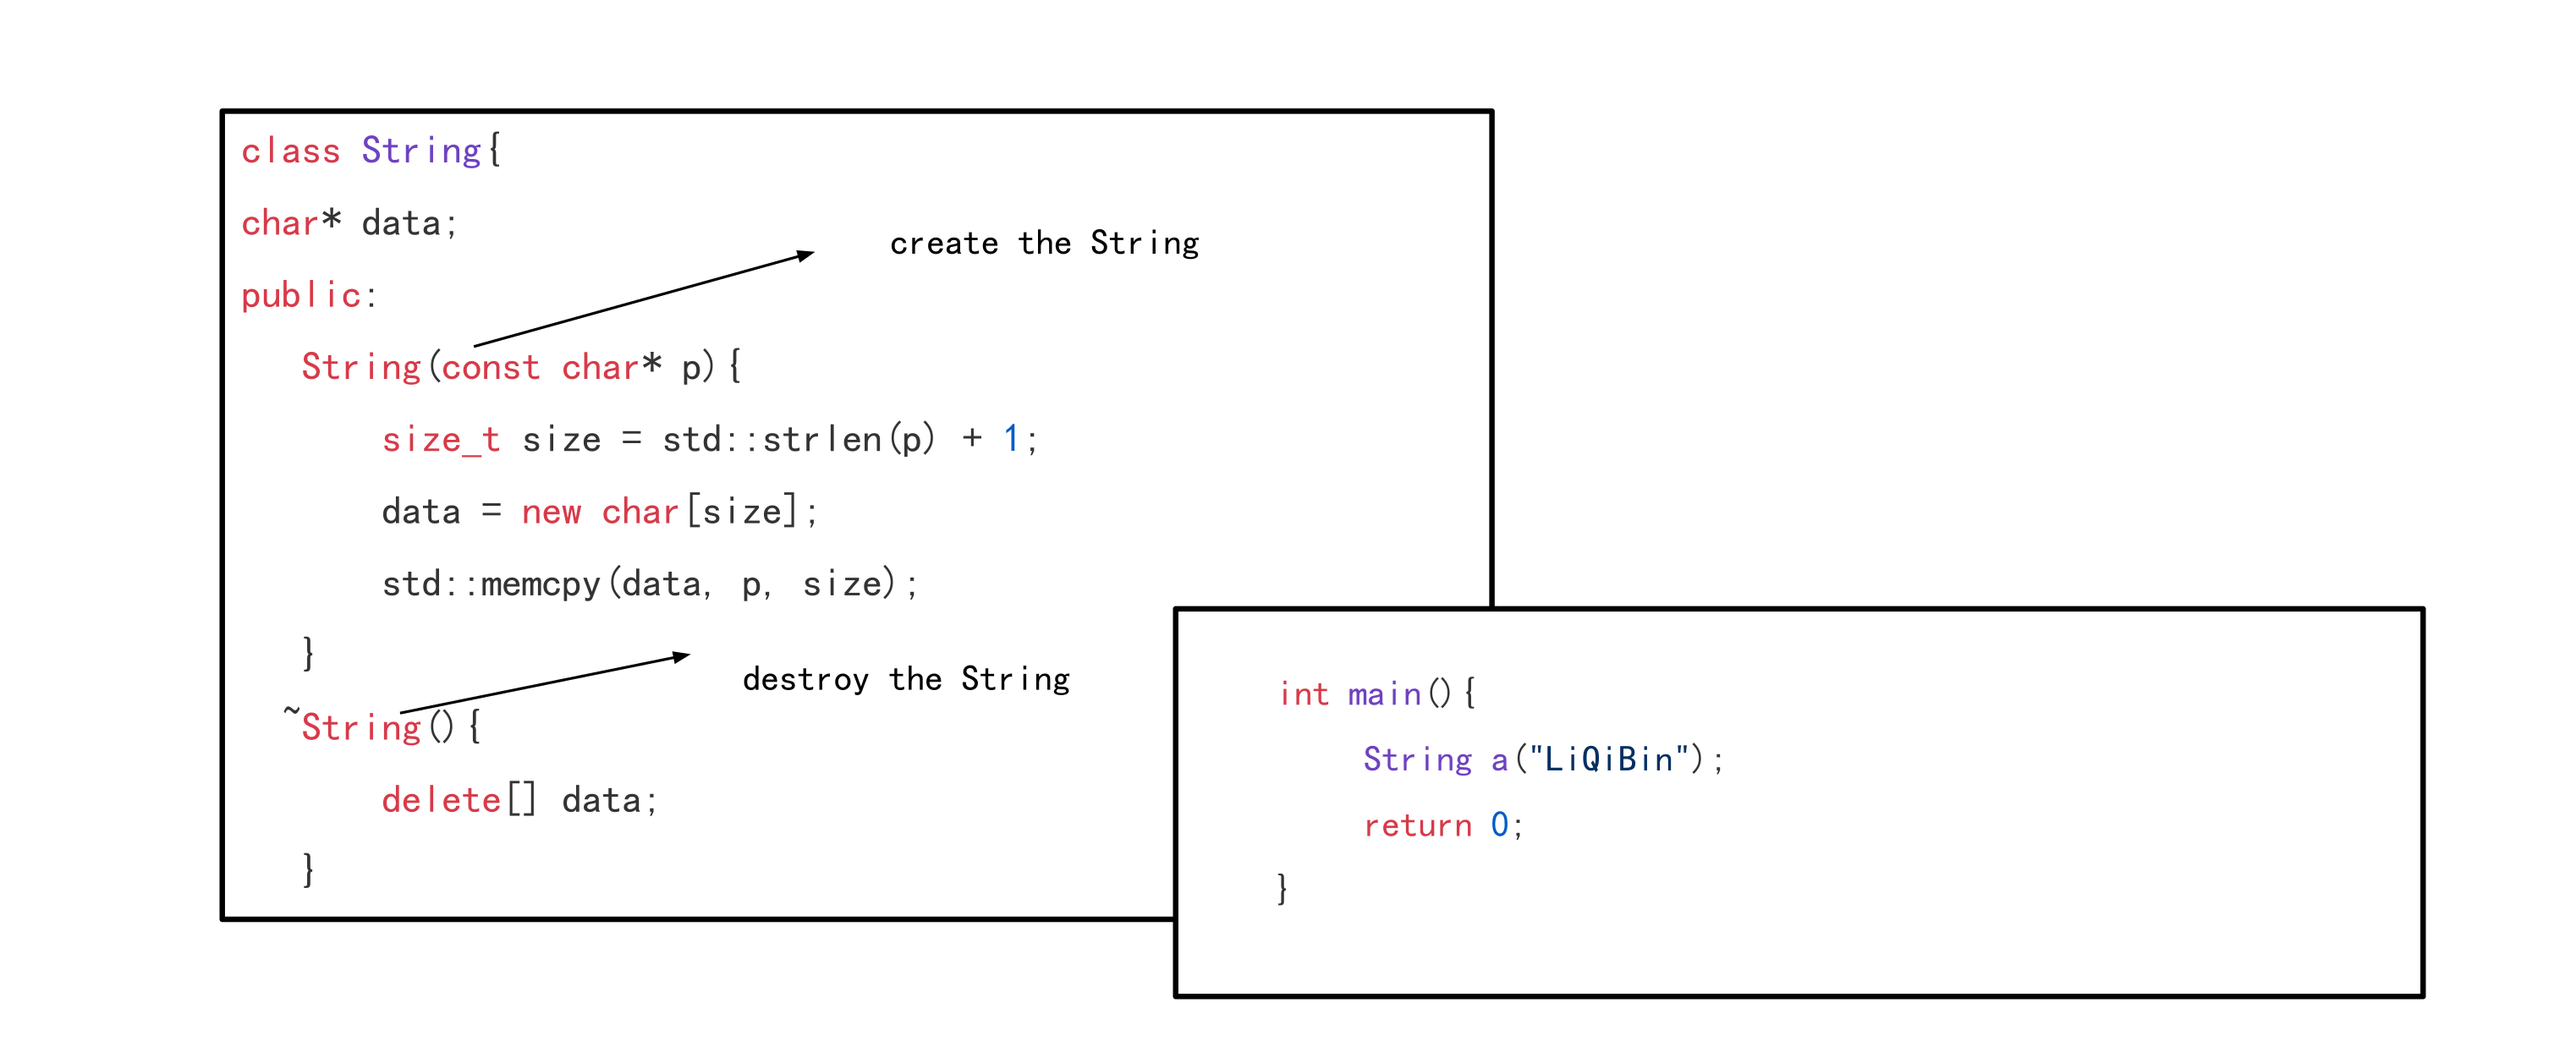
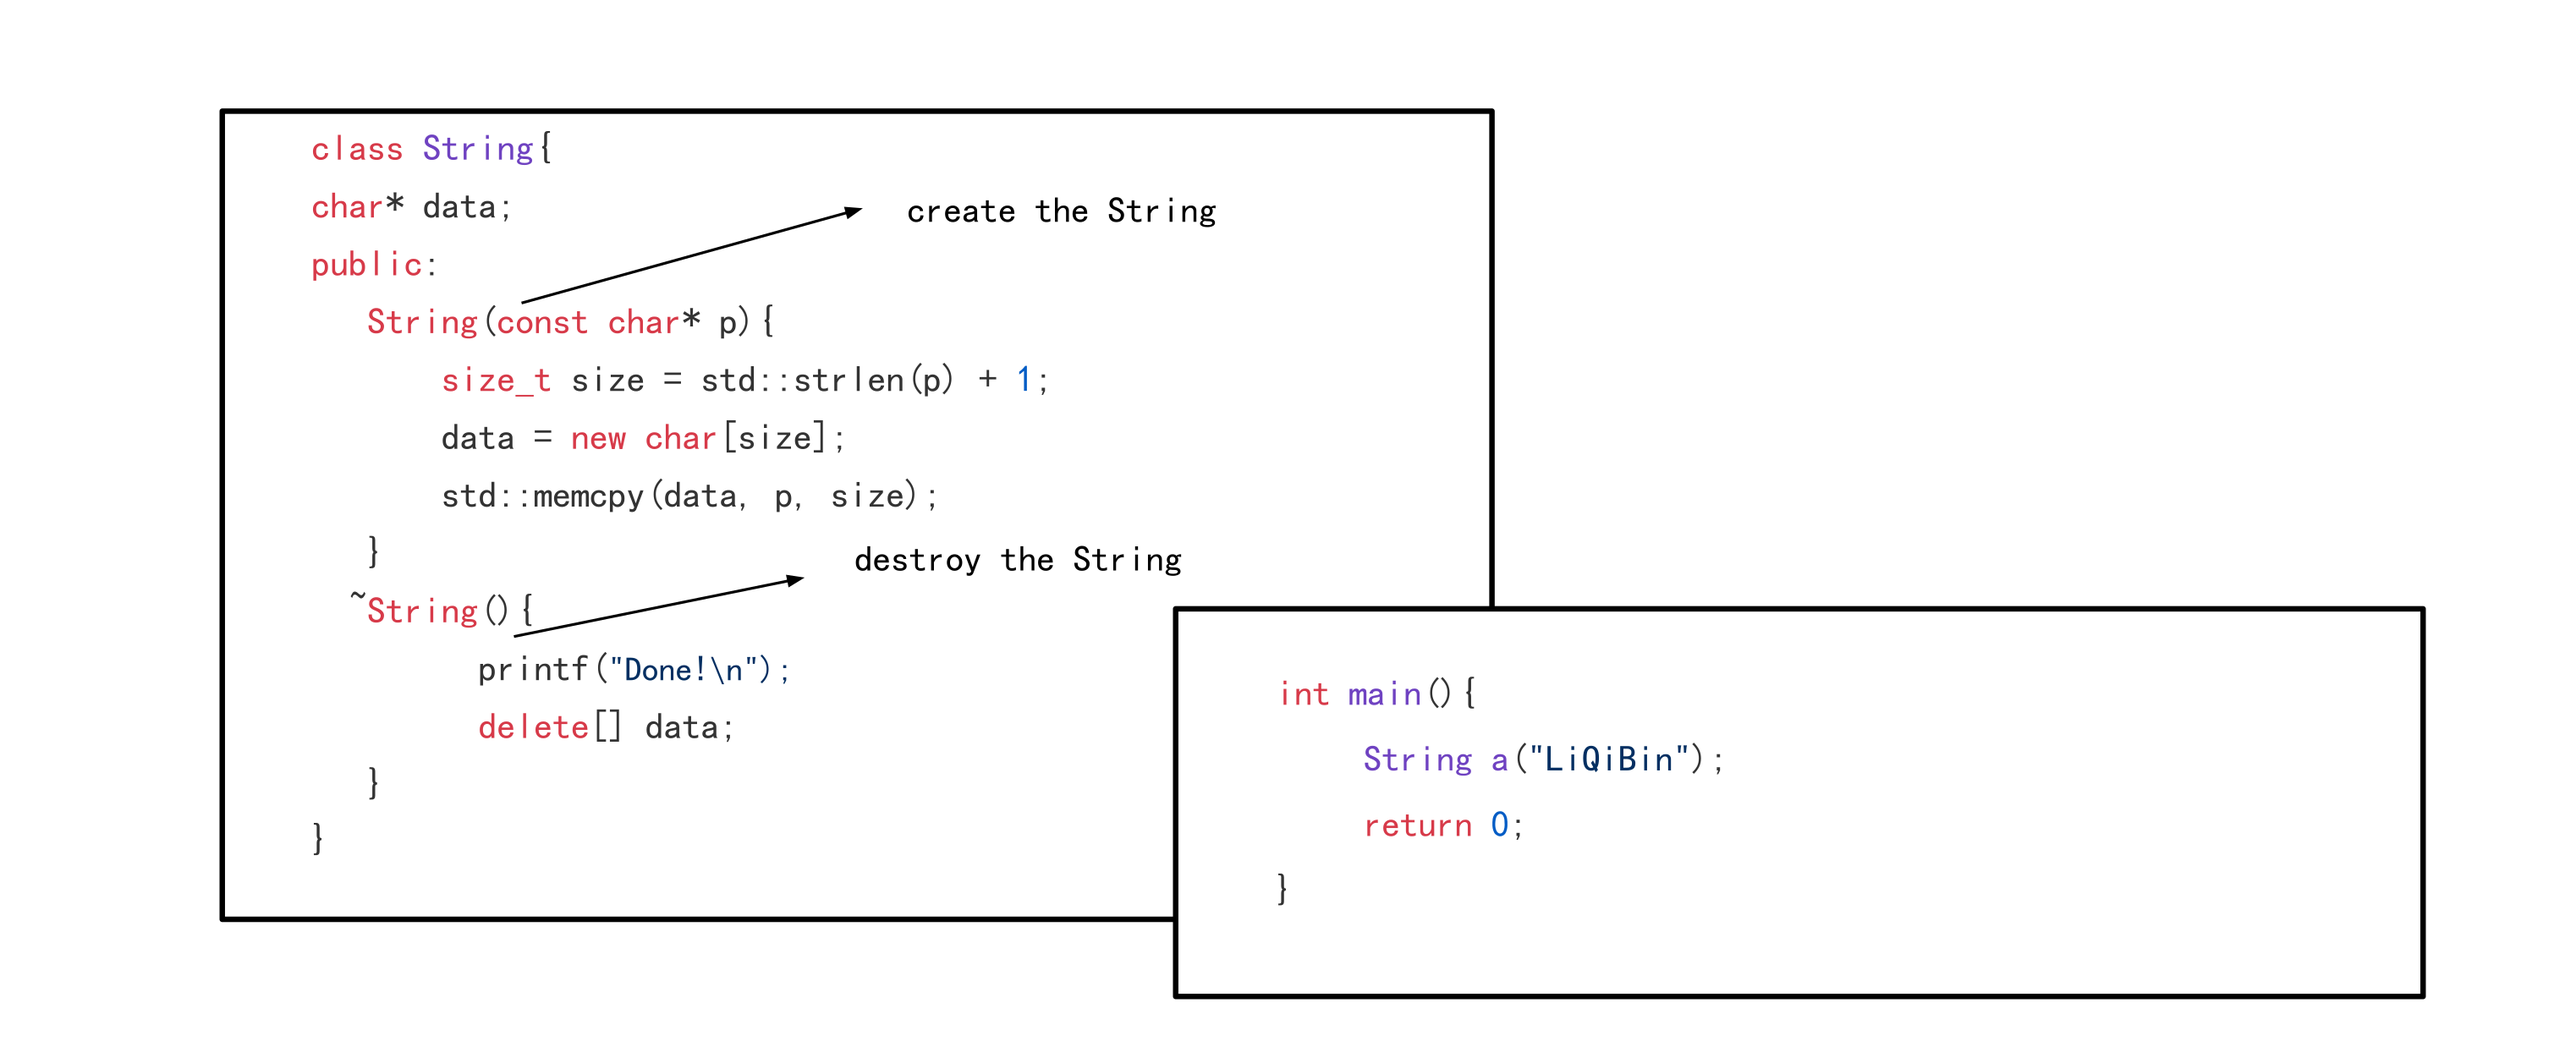
Site updated: 2021-02-22 04:40:40

diff --git a/2021/02/21/The-rule-of-Three-Five/index.html b/2021/02/21/The-rule-of-Three-Five/index.html
@@ -185,7 +185,7 @@
     
     <span class="post-meta mr-2">
       <i class="iconfont icon-chart"></i>
-      289 字
+      597 字
     </span>
   
 
@@ -195,7 +195,7 @@
       <i class="iconfont icon-clock-fill"></i>
       
       
-      3
+      7
        分钟
     </span>
   
@@ -238,7 +238,15 @@
 <p>三法则规定:如果类中定义了以下三个特殊的成员函数的其中一个，则这个应该显式的定义所有的三个特殊的成员函数。<br><br>因为默认生成的三个函数通常不能满足我们的使用要求。<br></p>
 <p>默认生成的<code>Copy Constructor</code>和<code>Copy assignment operator</code>执行的是浅拷贝(<a href="https://en.wikipedia.org/wiki/Object_copying#Shallow_copy" target="_blank" rel="noopener">Shallow Copy</a>)。而我们的类中如果存在指针这类的成员变量,使用默认生成的这两个函数，可能会引起内存泄漏及一系列无法定义的行为。<br></p>
 <p>下面分别介绍这三个特殊的成员函数。<br></p>
-<h2 id="The-Desturctor"><a href="#The-Desturctor" class="headerlink" title="The Desturctor"></a>The Desturctor</h2><p>当类结束它的生命周期的时候，类会自动调用析构函数去销毁这个类。<br><br><img src="png1.png" alt="png1"><br><br>如上图，当<code>String</code>类</p>
+<h2 id="The-Desturctor"><a href="#The-Desturctor" class="headerlink" title="The Desturctor"></a>The Desturctor</h2><p>当类结束它的生命周期的时候，类会自动调用析构函数去销毁这个类。<br><br><img src="png1.png" alt="String class"><br><br>如上图，当<code>String</code>类运行到<code>main</code>块的末尾的时候结束其生命周期，这个时候类会自动调用析构函数去销毁这个类。<br></p>
+<p><strong>输出如下:</strong><br><br><figure class="highlight c++"><table><tr><td class="gutter hljs hljs hljs"><div class="hljs code-wrapper"><pre><span class="line">1</span><br></pre></div></td><td class="code"><div class="hljs code-wrapper"><pre><code class="hljs c++">Done!<br></code></pre></div></td></tr></table></figure></p>
+<h2 id="The-assignment-operator"><a href="#The-assignment-operator" class="headerlink" title="The assignment operator"></a>The assignment operator</h2><p><img src="png2.png" alt="defalut assignment"><br><br>使用默认的拷贝赋值符得到的效果就如上图，问题有二个:<br></p>
+<ul>
+<li>1 . 当执行<code>tmp = s</code>的时候原<code>tmp</code>指向的那块内存，就永远不会被<code>delete[]</code>，这造成了内存泄漏。</li>
+<li>2 . 当<code>func()</code>执行结束的时候对象<code>tmp</code>的生命周期结束，将会调用<code>String</code>类的析构函数去销毁其申请的资源，这样就把指向<code>LiQiBin</code>处的内存<code>delete[]</code>了，当<code>main</code>函数执行完后,对象<code>a</code>也要销毁其持有的资源，这样就会<code>delete</code>已经<code>delete</code>过的资源，系统报错！</li>
+</ul>
+<p>怎么解决这个问题呢? 答案是：使用自己定义的可执行<strong>深拷贝</strong>的<code>copy assignment operator</code>。<br></p>
+<p><strong>修改代码如下:</strong><br><figure class="highlight c++"><table><tr><td class="gutter hljs hljs hljs"><div class="hljs code-wrapper"><pre><span class="line">1</span><br><span class="line">2</span><br><span class="line">3</span><br><span class="line">4</span><br><span class="line">5</span><br><span class="line">6</span><br><span class="line">7</span><br><span class="line">8</span><br><span class="line">9</span><br><span class="line">10</span><br><span class="line">11</span><br><span class="line">12</span><br><span class="line">13</span><br><span class="line">14</span><br><span class="line">15</span><br><span class="line">16</span><br><span class="line">17</span><br><span class="line">18</span><br><span class="line">19</span><br><span class="line">20</span><br><span class="line">21</span><br><span class="line">22</span><br><span class="line">23</span><br><span class="line">24</span><br><span class="line">25</span><br></pre></div></td><td class="code"><div class="hljs code-wrapper"><pre><code class="hljs c++"><span class="hljs-comment">/*修改String类即可*/</span><br><span class="hljs-class"><span class="hljs-keyword">class</span> <span class="hljs-title">String</span></span><br><span class="hljs-class">&#123;</span><br>    <span class="hljs-keyword">char</span>* data;<br><span class="hljs-keyword">public</span>:<br><br>    <span class="hljs-keyword">String</span>(<span class="hljs-keyword">const</span> <span class="hljs-keyword">char</span>* p) &#123;<br>        <span class="hljs-keyword">size_t</span> <span class="hljs-built_in">size</span> = <span class="hljs-built_in">std</span>::<span class="hljs-built_in">strlen</span>(p) + <span class="hljs-number">1</span>;<br>        data = <span class="hljs-keyword">new</span> <span class="hljs-keyword">char</span>[<span class="hljs-built_in">size</span>];<br>        <span class="hljs-built_in">std</span>::<span class="hljs-built_in">memcpy</span>(data, p, <span class="hljs-built_in">size</span>);<br>    &#125;<br>	<br>   ~<span class="hljs-keyword">String</span>() &#123; <br>	<span class="hljs-built_in">printf</span>(<span class="hljs-string">"Done!\n"</span>);<br>        <span class="hljs-keyword">delete</span>[] data;<br>    &#125;<br>	<br>    <span class="hljs-keyword">String</span>&amp; <span class="hljs-keyword">operator</span>=(<span class="hljs-keyword">const</span> <span class="hljs-keyword">String</span>&amp; that) &#123;<br>        <span class="hljs-keyword">size_t</span> <span class="hljs-built_in">size</span> = <span class="hljs-built_in">std</span>::<span class="hljs-built_in">strlen</span>(that.data) + <span class="hljs-number">1</span>;<br>	<span class="hljs-keyword">delete</span>[] data:<br>        data = <span class="hljs-keyword">new</span> <span class="hljs-keyword">char</span>[<span class="hljs-built_in">size</span>];<br>        <span class="hljs-built_in">std</span>::<span class="hljs-built_in">memcpy</span>(data, that.data, <span class="hljs-built_in">size</span>);<br>	<span class="hljs-keyword">return</span> *<span class="hljs-keyword">this</span>;<br>    &#125;<br>&#125;;<br></code></pre></div></td></tr></table></figure><br>修改代码后的结果如下图:<br><br><img src="png3.png" alt="user-defined assignment"><br></p>
 
             </div>
             <hr>
